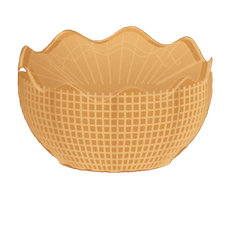
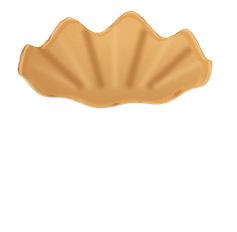
Ice cream: glass and waffle each split into a back and a front layer so the scoops sit inside them (dish_back, bowl, scoops, bowl_front, dish_front); the waffle without the grid, tall at the back and low at the front (game_parts3.py). Owner, 26 October; no build

Changed region(s): [[0.0591, 0.0302, 0.9156, 0.7543]]

diff --git a/Assets/Scripts/Food/IceCreamStation.cs b/Assets/Scripts/Food/IceCreamStation.cs
@@ -71,7 +71,7 @@ public class IceCreamStation : MonoBehaviour
 
     private class Dish
     {
-        public Transform root; public SpriteRenderer back, bowl, front; public SpriteRenderer[] scoops = new SpriteRenderer[MaxScoops]; public GameObject trash;
+        public Transform root; public SpriteRenderer back, bowl, bowlFront, front; public SpriteRenderer[] scoops = new SpriteRenderer[MaxScoops]; public GameObject trash;
         public bool waffle; public readonly List<int> flavours = new List<int>(); public Vector3 rest; public float scale; public int order;
         public bool Empty => !waffle && flavours.Count == 0;
     }
@@ -83,7 +83,7 @@ public class IceCreamStation : MonoBehaviour
     private Coroutine shake;
     private Sprite[] activeLevels;                                  // the section pictures of the box in use (small or long)
     private SpriteRenderer waffleRenderer; private Sprite waffleClosed, waffleOpen; private Coroutine waffleBake;
-    private Sprite dishBack, dishFrontEmpty, dishFrontBowl, bowlSprite, trashSprite; private readonly Sprite[] smallScoops = new Sprite[Flavours];
+    private Sprite dishBack, dishFront, bowlSprite, bowlFrontSprite, trashSprite; private readonly Sprite[] smallScoops = new Sprite[Flavours];
     private string layer; private int order;
 
     public bool IsBuilding => selected >= 0;
@@ -113,7 +113,7 @@ public class IceCreamStation : MonoBehaviour
         var count = small ? BaseFlavours : Flavours;
         var b = box != null && box.sprite != null ? box.sprite.bounds : new Bounds(Vector3.zero, Vector3.one);   // local units of this object
         Vector3 At(Vector2 frac) => new Vector3(b.min.x + frac.x * b.size.x, b.min.y + frac.y * b.size.y, 0f);
-        dishBack = Resources.Load<Sprite>("IceCream/dish_back"); dishFrontEmpty = Resources.Load<Sprite>("IceCream/dish_front_empty"); dishFrontBowl = Resources.Load<Sprite>("IceCream/dish_front_bowl");
+        dishBack = Resources.Load<Sprite>("IceCream/dish_back"); dishFront = Resources.Load<Sprite>("IceCream/dish_front"); bowlFrontSprite = Resources.Load<Sprite>("IceCream/bowl_front");   // glass and waffle each in a back and a front layer, scoops between (owner, 26 October 2026)
         bowlSprite = Resources.Load<Sprite>("IceCream/bowl"); trashSprite = Resources.Load<Sprite>("IceCream/trash");
         for (var i = 0; i < Flavours; i++) { smallScoops[i] = Resources.Load<Sprite>("IceCream/scoop_small_" + Letters[i]); if (smallScoops[i] == null) smallScoops[i] = scoopSprites[i]; }
         waffleClosed = Resources.Load<Sprite>("IceCream/waffle_closed"); waffleOpen = Resources.Load<Sprite>("IceCream/waffle_open");
@@ -160,6 +160,7 @@ public class IceCreamStation : MonoBehaviour
                 var tap = go.GetComponent<IceCreamTap>(); tap.station = this; tap.kind = IceCreamTap.Kind.Dish; tap.index = i;
                 d.bowl = Child(go.transform, "Bowl", d.order + 1); d.bowl.sprite = bowlSprite;
                 for (var s = 0; s < MaxScoops; s++) d.scoops[s] = Child(go.transform, "Scoop" + s, d.order + 2 + s);
+                d.bowlFront = Child(go.transform, "BowlFront", d.order + 5); d.bowlFront.sprite = bowlFrontSprite;
                 d.front = Child(go.transform, "Front", d.order + 6);
                 var t = new GameObject("Trash", typeof(SpriteRenderer), typeof(BoxCollider), typeof(IceCreamTap)); t.transform.SetParent(go.transform, false);
                 var tr = t.GetComponent<SpriteRenderer>(); tr.sortingLayerName = layer; tr.sortingOrder = d.order + 7; tr.sprite = trashSprite;
@@ -247,7 +248,7 @@ public class IceCreamStation : MonoBehaviour
     {
         d.back.sortingOrder = baseOrder; d.bowl.sortingOrder = baseOrder + 1;
         for (var s = 0; s < MaxScoops; s++) d.scoops[s].sortingOrder = baseOrder + 2 + s;
-        d.front.sortingOrder = baseOrder + 6; var tr = d.trash.GetComponent<SpriteRenderer>(); if (tr != null) tr.sortingOrder = baseOrder + 7;
+        d.bowlFront.sortingOrder = baseOrder + 5; d.front.sortingOrder = baseOrder + 6; var tr = d.trash.GetComponent<SpriteRenderer>(); if (tr != null) tr.sortingOrder = baseOrder + 7;
     }
 
     /// The waffle machine (owner, 25 and 26 October): a tap starts a session, 8 s closed, then the lid opens and up to two
@@ -315,7 +316,8 @@ public class IceCreamStation : MonoBehaviour
     private void RefreshDish(Dish d)
     {
         if (d.bowl != null) d.bowl.enabled = d.waffle;
-        if (d.front != null) { d.front.sprite = d.waffle ? dishFrontBowl : dishFrontEmpty; d.front.enabled = d.front.sprite != null; }
+        if (d.bowlFront != null) d.bowlFront.enabled = d.waffle && bowlFrontSprite != null;
+        if (d.front != null) { d.front.sprite = dishFront; d.front.enabled = dishFront != null; }
         var n = d.flavours.Count; var dh = dishBack != null ? dishBack.bounds.size.y : 2f; var dmin = dishBack != null ? dishBack.bounds.min.y : -1f;
         for (var s = 0; s < MaxScoops; s++)
         {

diff --git a/Assets/Scripts/Food/IceCreamOrderIcon.cs b/Assets/Scripts/Food/IceCreamOrderIcon.cs
@@ -3,7 +3,7 @@ using UnityEngine;
 /// The ice cream in a customer's order bubble, built from the parts (owner, 17 October: the order says how many
 /// scoops and which flavours; their order does not matter). Since the glass-dish flow (owner, 26 October 2026) it is
 /// the dish with the scoops side by side, the waffle bowl under them when the order's variant ends in 'w'; the parts
-/// come from Resources/IceCream (dish_back, bowl, dish_front_*, scoop_small_*). Without them the old cone stack shows.
+/// come from Resources/IceCream (dish_back, bowl, scoops, bowl_front, dish_front, back to front). Without them the old cone stack shows.
 public class IceCreamOrderIcon : MonoBehaviour
 {
     public SpriteRenderer cone; public SpriteRenderer[] scoops = new SpriteRenderer[IceCreamStation.MaxScoops];
@@ -11,7 +11,7 @@ public class IceCreamOrderIcon : MonoBehaviour
     public float scoopStep = 0.62f, firstScoopDrop = 0.22f;
     public float dishScale = 0.85f;                                             // the dish against the cone's size in the bubble
     public float scoopSpread = 0.72f, scoopTop = 0.709f, scoopZig = 0.014f;    // as on the station
-    private SpriteRenderer bowl, front;
+    private SpriteRenderer bowl, bowlFront, front;
 
     /// variant: the order letters (v s c m), one per scoop, then 'w' for a waffle bowl
     public void Show(string variant)
@@ -23,9 +23,11 @@ public class IceCreamOrderIcon : MonoBehaviour
         var parts = cone.transform.parent; if (parts != null) { parts.localScale = new Vector3(dishScale, dishScale, 1f); parts.localPosition = Vector3.zero; }
         cone.sprite = dishBack; cone.transform.localPosition = Vector3.zero;
         if (bowl == null) bowl = Part("Bowl", cone.sortingOrder + 1);
+        if (bowlFront == null) bowlFront = Part("BowlFront", cone.sortingOrder + 5);
         if (front == null) front = Part("Front", cone.sortingOrder + 6);
         bowl.sprite = Resources.Load<Sprite>("IceCream/bowl"); bowl.enabled = waffle && bowl.sprite != null;
-        front.sprite = Resources.Load<Sprite>("IceCream/dish_front_" + (waffle ? "bowl" : "empty")); front.enabled = front.sprite != null;
+        bowlFront.sprite = Resources.Load<Sprite>("IceCream/bowl_front"); bowlFront.enabled = waffle && bowlFront.sprite != null;
+        front.sprite = Resources.Load<Sprite>("IceCream/dish_front"); front.enabled = front.sprite != null;
         var n = letters.Length; var dh = dishBack.bounds.size.y; var dmin = dishBack.bounds.min.y;
         for (var i = 0; i < scoops.Length; i++)
         {
